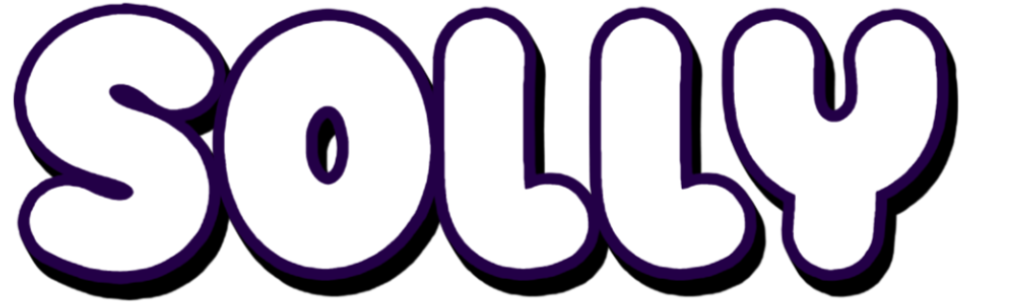
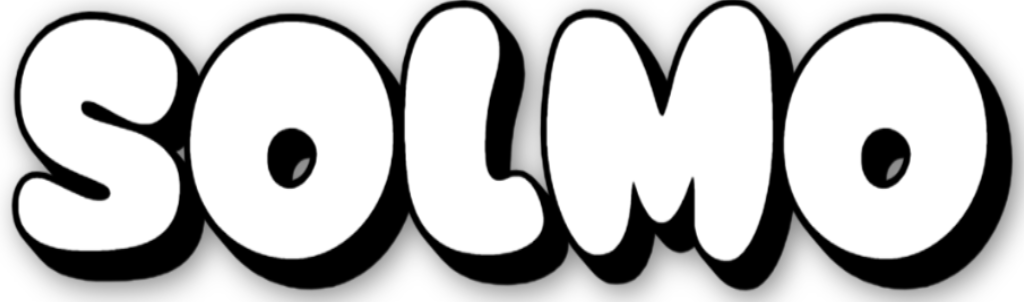
1

diff --git a/index.html b/index.html
@@ -1,10 +1,10 @@
 <!DOCTYPE html><html lang="en-US"><head>
 	<meta charset="UTF-8">
-			<title>SOLLY</title>
+			<title>SOLMO</title>
 		<meta name="viewport" content="width=device-width, initial-scale=1">
 <meta name="robots" content="max-image-preview:large">
 	<style>img:is([sizes="auto" i], [sizes^="auto," i]) { contain-intrinsic-size: 3000px 1500px }</style>
-	<title>SOLLY</title>
+	<title>SOLMO</title>
 
 <script>
 window._wpemojiSettings = {"baseUrl":"https:\/\/s.w.org\/images\/core\/emoji\/16.0.1\/72x72\/","ext":".png","svgUrl":"https:\/\/s.w.org\/images\/core\/emoji\/16.0.1\/svg\/","svgExt":".svg","source":{"concatemoji":"https:\/\/cyclope-solly.lol\/wp-includes\/js\/wp-emoji-release.min.js?ver=6.8.2"}};
@@ -101,7 +101,7 @@ window._wpemojiSettings = {"baseUrl":"https:\/\/s.w.org\/images\/core\/emoji\/16
 <link rel="icon" href="images/89mA0zrhSQyB.png" sizes="32x32">
 <link rel="icon" href="images/IZOmV4SHBa59.png" sizes="192x192">
 <link rel="apple-touch-icon" href="images/Iuq5YRJtw0Hx.png">
-<meta name="msapplication-TileImage" content="https://cyclope-solly.lol/wp-content/uploads/2025/09/cropped-SOLLY-02-270x270.png">
+<meta name="msapplication-TileImage" content="https://cyclope-solly.lol/wp-content/uploads/2025/09/cropped-SOLMO-02-270x270.png">
 	<meta name="viewport" content="width=device-width, initial-scale=1.0, viewport-fit=cover"></head>
 <body class="home wp-singular page-template page-template-elementor_canvas page page-id-8 wp-embed-responsive wp-theme-twentytwentyfive elementor-default elementor-template-canvas elementor-kit-7 elementor-page elementor-page-8">
 			<div data-elementor-type="wp-post" data-elementor-id="8" class="elementor elementor-8" data-elementor-post-type="page">
@@ -112,7 +112,7 @@ window._wpemojiSettings = {"baseUrl":"https:\/\/s.w.org\/images\/core\/emoji\/16
 				<div class="elementor-element elementor-element-9959b26 elementor-widget elementor-widget-image" data-id="9959b26" data-element_type="widget" data-widget_type="image.default">
 				<div class="elementor-widget-container">
 			<style>/*! elementor - v3.23.0 - 05-08-2024 */
-.elementor-widget-image{text-align:center}.elementor-widget-image a{display:inline-block}.elementor-widget-image a img[src$=".svg"]{width:48px}.elementor-widget-image img{vertical-align:middle;display:inline-block}</style>										<img fetchpriority="high" decoding="async" width="1024" height="302" src="images/1fzAzrQ1W9zP.png" class="attachment-large size-large wp-image-18" alt="" srcset="images/1fzAzrQ1W9zP.png 1024w, images/4cHuVs1ChpiT.png 300w, images/MsbCdbGXk9Nu.png 768w, images/0kXmdQ5VOPBu.png 1531w" sizes="(max-width: 1024px) 100vw, 1024px">													</div>
+.elementor-widget-image{text-align:center}.elementor-widget-image a{display:inline-block}.elementor-widget-image a img[src$=".svg"]{width:48px}.elementor-widget-image img{vertical-align:middle;display:inline-block}</style>										<img fetchpriority="high" decoding="async" width="1024" height="302" src="images/1fzAzrQ1W9zP.png" class="attachment-large size-large wp-image-18" >													</div>
 				</div>
 				</div>
 		<div class="elementor-element elementor-element-6f1f717 e-con-full e-flex e-con e-child" data-id="6f1f717" data-element_type="container">
@@ -154,7 +154,7 @@ window._wpemojiSettings = {"baseUrl":"https:\/\/s.w.org\/images\/core\/emoji\/16
 				<div class="elementor-element elementor-element-f789ff1 elementor-widget elementor-widget-heading" data-id="f789ff1" data-element_type="widget" data-widget_type="heading.default">
 				<div class="elementor-widget-container">
 			<style>/*! elementor - v3.23.0 - 05-08-2024 */
-.elementor-heading-title{padding:0;margin:0;line-height:1}.elementor-widget-heading .elementor-heading-title[class*=elementor-size-]>a{color:inherit;font-size:inherit;line-height:inherit}.elementor-widget-heading .elementor-heading-title.elementor-size-small{font-size:15px}.elementor-widget-heading .elementor-heading-title.elementor-size-medium{font-size:19px}.elementor-widget-heading .elementor-heading-title.elementor-size-large{font-size:29px}.elementor-widget-heading .elementor-heading-title.elementor-size-xl{font-size:39px}.elementor-widget-heading .elementor-heading-title.elementor-size-xxl{font-size:59px}</style><h2 class="elementor-heading-title elementor-size-default">$SOLLY</h2>		</div>
+.elementor-heading-title{padding:0;margin:0;line-height:1}.elementor-widget-heading .elementor-heading-title[class*=elementor-size-]>a{color:inherit;font-size:inherit;line-height:inherit}.elementor-widget-heading .elementor-heading-title.elementor-size-small{font-size:15px}.elementor-widget-heading .elementor-heading-title.elementor-size-medium{font-size:19px}.elementor-widget-heading .elementor-heading-title.elementor-size-large{font-size:29px}.elementor-widget-heading .elementor-heading-title.elementor-size-xl{font-size:39px}.elementor-widget-heading .elementor-heading-title.elementor-size-xxl{font-size:59px}</style><h2 class="elementor-heading-title elementor-size-default">$SOLMO</h2>		</div>
 				</div>
 				<div class="elementor-element elementor-element-93abe87 elementor-align-center elementor-widget elementor-widget-button" data-id="93abe87" data-element_type="widget" data-widget_type="button.default">
 				<div class="elementor-widget-container">
@@ -191,11 +191,11 @@ window._wpemojiSettings = {"baseUrl":"https:\/\/s.w.org\/images\/core\/emoji\/16
 		<div class="elementor-element elementor-element-16a8892 e-con-full e-flex e-con e-child" data-id="16a8892" data-element_type="container">
 				<div class="elementor-element elementor-element-ff9ca61 elementor-widget elementor-widget-image" data-id="ff9ca61" data-element_type="widget" data-widget_type="image.default">
 				<div class="elementor-widget-container">
-													<img loading="lazy" decoding="async" width="1024" height="641" src="images/7aKzSpfxFmTI.png" class="attachment-large size-large wp-image-24" alt="" srcset="images/7aKzSpfxFmTI.png 1024w, images/dv6R2PCYJuTu.png 300w, images/HjCuzeR8yxvj.png 768w, images/o3esAVqtWCFO.png 1107w" sizes="(max-width: 1024px) 100vw, 1024px">													</div>
+													<img loading="lazy" decoding="async" width="1024" height="641" src="images/7aKzSpfxFmTI.png" class="attachment-large size-large wp-image-24" alt="" >													</div>
 				</div>
 				<div class="elementor-element elementor-element-ede7e00 elementor-widget elementor-widget-heading" data-id="ede7e00" data-element_type="widget" data-widget_type="heading.default">
 				<div class="elementor-widget-container">
-			<h2 class="elementor-heading-title elementor-size-default">SOLLY comes with a spark that instantly lifts the mood. Round, cheerful, and always full of surprises, he bounces from one idea to the next with endless energy. $SOLLY carries that kind of fun you can’t put into words, but once you feel it, you’ll always want to be part of it again.</h2>		</div>
+			<h2 class="elementor-heading-title elementor-size-default">SOLMO comes with a spark that instantly lifts the mood. Round, cheerful, and always full of surprises, he bounces from one idea to the next with endless energy. $SOLMO carries that kind of fun you can’t put into words, but once you feel it, you’ll always want to be part of it again.</h2>		</div>
 				</div>
 				</div>
 				</div>
@@ -224,11 +224,11 @@ window._wpemojiSettings = {"baseUrl":"https:\/\/s.w.org\/images\/core\/emoji\/16
 				</div>
 				<div class="elementor-element elementor-element-a985c70 elementor-widget elementor-widget-image" data-id="a985c70" data-element_type="widget" data-widget_type="image.default">
 				<div class="elementor-widget-container">
-													<img loading="lazy" decoding="async" width="1024" height="97" src="images/Lfpv28HYl6fH.png" class="attachment-large size-large wp-image-26" alt="" srcset="images/Lfpv28HYl6fH.png 1024w, images/oZNPBiepPkEq.png 300w, images/8hSTS9jOUppu.png 768w, images/49DhwmuWCuPO.png 1536w, images/LvGb88pLaX1U.png 2048w" sizes="(max-width: 1024px) 100vw, 1024px">													</div>
+													<img loading="lazy" decoding="async" width="1024" height="97" src="images/Lfpv28HYl6fH.png" class="attachment-large size-large wp-image-26" alt="" >													</div>
 				</div>
 				<div class="elementor-element elementor-element-8ba68dd elementor-widget elementor-widget-heading" data-id="8ba68dd" data-element_type="widget" data-widget_type="heading.default">
 				<div class="elementor-widget-container">
-			<h2 class="elementor-heading-title elementor-size-default">Life can get too serious sometimes. SOLLY is here to break that loop with laughter, charm, and a little bit of chaos. He reminds us that joy doesn’t have to be complicated — it’s in the simple moments, shared with the right people.</h2>		</div>
+			<h2 class="elementor-heading-title elementor-size-default">Life can get too serious sometimes. SOLMO is here to break that loop with laughter, charm, and a little bit of chaos. He reminds us that joy doesn’t have to be complicated — it’s in the simple moments, shared with the right people.</h2>		</div>
 				</div>
 				</div>
 				<div class="elementor-element elementor-element-cc89a8f elementor-widget elementor-widget-spacer" data-id="cc89a8f" data-element_type="widget" data-widget_type="spacer.default">
@@ -257,7 +257,7 @@ window._wpemojiSettings = {"baseUrl":"https:\/\/s.w.org\/images\/core\/emoji\/16
 				</div>
 				<div class="elementor-element elementor-element-5c61304 elementor-widget elementor-widget-heading" data-id="5c61304" data-element_type="widget" data-widget_type="heading.default">
 				<div class="elementor-widget-container">
-			<h2 class="elementor-heading-title elementor-size-default">Every laugh, every spin, every little story adds to SOLLY’s world. Come be part of it — whether you’re here to play, to share, or just to enjoy the ride, you’re already one of us.</h2>		</div>
+			<h2 class="elementor-heading-title elementor-size-default">Every laugh, every spin, every little story adds to SOLMO’s world. Come be part of it — whether you’re here to play, to share, or just to enjoy the ride, you’re already one of us.</h2>		</div>
 				</div>
 				<div class="elementor-element elementor-element-69be62f elementor-align-left elementor-widget elementor-widget-button" data-id="69be62f" data-element_type="widget" data-widget_type="button.default">
 				<div class="elementor-widget-container">
@@ -291,7 +291,7 @@ window._wpemojiSettings = {"baseUrl":"https:\/\/s.w.org\/images\/core\/emoji\/16
 					<div class="e-con-inner">
 				<div class="elementor-element elementor-element-d441f37 elementor-widget elementor-widget-heading" data-id="d441f37" data-element_type="widget" data-widget_type="heading.default">
 				<div class="elementor-widget-container">
-			<h2 class="elementor-heading-title elementor-size-default">2026 SOLLY</h2>		</div>
+			<h2 class="elementor-heading-title elementor-size-default">2026 SOLMO</h2>		</div>
 				</div>
 					</div>
 				</div>
@@ -381,7 +381,7 @@ var ElementorProFrontendConfig = {"ajaxurl":"https:\/\/cyclope-solly.lol\/wp-adm
 <script src="js/EbXLwv8Qv1jq.js" id="elementor-waypoints-js"></script>
 <script src="js/JeSnNvoJRbG5.js" id="jquery-ui-core-js"></script>
 <script id="elementor-frontend-js-before">
-var elementorFrontendConfig = {"environmentMode":{"edit":false,"wpPreview":false,"isScriptDebug":false},"i18n":{"shareOnFacebook":"Share on Facebook","shareOnTwitter":"Share on Twitter","pinIt":"Pin it","download":"Download","downloadImage":"Download image","fullscreen":"Fullscreen","zoom":"Zoom","share":"Share","playVideo":"Play Video","previous":"Previous","next":"Next","close":"Close","a11yCarouselWrapperAriaLabel":"Carousel | Horizontal scrolling: Arrow Left & Right","a11yCarouselPrevSlideMessage":"Previous slide","a11yCarouselNextSlideMessage":"Next slide","a11yCarouselFirstSlideMessage":"This is the first slide","a11yCarouselLastSlideMessage":"This is the last slide","a11yCarouselPaginationBulletMessage":"Go to slide"},"is_rtl":false,"breakpoints":{"xs":0,"sm":480,"md":768,"lg":1025,"xl":1440,"xxl":1600},"responsive":{"breakpoints":{"mobile":{"label":"Mobile Portrait","value":767,"default_value":767,"direction":"max","is_enabled":true},"mobile_extra":{"label":"Mobile Landscape","value":880,"default_value":880,"direction":"max","is_enabled":false},"tablet":{"label":"Tablet Portrait","value":1024,"default_value":1024,"direction":"max","is_enabled":true},"tablet_extra":{"label":"Tablet Landscape","value":1200,"default_value":1200,"direction":"max","is_enabled":false},"laptop":{"label":"Laptop","value":1366,"default_value":1366,"direction":"max","is_enabled":false},"widescreen":{"label":"Widescreen","value":2400,"default_value":2400,"direction":"min","is_enabled":false}}},"version":"3.23.4","is_static":false,"experimentalFeatures":{"e_optimized_css_loading":true,"e_font_icon_svg":true,"additional_custom_breakpoints":true,"container":true,"container_grid":true,"e_swiper_latest":true,"e_nested_atomic_repeaters":true,"e_optimized_control_loading":true,"e_onboarding":true,"theme_builder_v2":true,"home_screen":true,"editor_v2":true,"ai-layout":true,"e_lazyload":true,"e_element_cache":true,"link-in-bio":true,"floating-buttons":true,"display-conditions":true,"form-submissions":true,"taxonomy-filter":true,"search":true},"urls":{"assets":"https:\/\/cyclope-solly.lol\/wp-content\/plugins\/elementor\/assets\/","ajaxurl":"https:\/\/cyclope-solly.lol\/wp-admin\/admin-ajax.php"},"nonces":{"floatingButtonsClickTracking":"5558436a1b"},"swiperClass":"swiper","settings":{"page":[],"editorPreferences":[]},"kit":{"active_breakpoints":["viewport_mobile","viewport_tablet"],"global_image_lightbox":"yes","lightbox_enable_counter":"yes","lightbox_enable_fullscreen":"yes","lightbox_enable_zoom":"yes","lightbox_enable_share":"yes","lightbox_title_src":"title","lightbox_description_src":"description"},"post":{"id":8,"title":"SOLLY","excerpt":"","featuredImage":false}};
+var elementorFrontendConfig = {"environmentMode":{"edit":false,"wpPreview":false,"isScriptDebug":false},"i18n":{"shareOnFacebook":"Share on Facebook","shareOnTwitter":"Share on Twitter","pinIt":"Pin it","download":"Download","downloadImage":"Download image","fullscreen":"Fullscreen","zoom":"Zoom","share":"Share","playVideo":"Play Video","previous":"Previous","next":"Next","close":"Close","a11yCarouselWrapperAriaLabel":"Carousel | Horizontal scrolling: Arrow Left & Right","a11yCarouselPrevSlideMessage":"Previous slide","a11yCarouselNextSlideMessage":"Next slide","a11yCarouselFirstSlideMessage":"This is the first slide","a11yCarouselLastSlideMessage":"This is the last slide","a11yCarouselPaginationBulletMessage":"Go to slide"},"is_rtl":false,"breakpoints":{"xs":0,"sm":480,"md":768,"lg":1025,"xl":1440,"xxl":1600},"responsive":{"breakpoints":{"mobile":{"label":"Mobile Portrait","value":767,"default_value":767,"direction":"max","is_enabled":true},"mobile_extra":{"label":"Mobile Landscape","value":880,"default_value":880,"direction":"max","is_enabled":false},"tablet":{"label":"Tablet Portrait","value":1024,"default_value":1024,"direction":"max","is_enabled":true},"tablet_extra":{"label":"Tablet Landscape","value":1200,"default_value":1200,"direction":"max","is_enabled":false},"laptop":{"label":"Laptop","value":1366,"default_value":1366,"direction":"max","is_enabled":false},"widescreen":{"label":"Widescreen","value":2400,"default_value":2400,"direction":"min","is_enabled":false}}},"version":"3.23.4","is_static":false,"experimentalFeatures":{"e_optimized_css_loading":true,"e_font_icon_svg":true,"additional_custom_breakpoints":true,"container":true,"container_grid":true,"e_swiper_latest":true,"e_nested_atomic_repeaters":true,"e_optimized_control_loading":true,"e_onboarding":true,"theme_builder_v2":true,"home_screen":true,"editor_v2":true,"ai-layout":true,"e_lazyload":true,"e_element_cache":true,"link-in-bio":true,"floating-buttons":true,"display-conditions":true,"form-submissions":true,"taxonomy-filter":true,"search":true},"urls":{"assets":"https:\/\/cyclope-solly.lol\/wp-content\/plugins\/elementor\/assets\/","ajaxurl":"https:\/\/cyclope-solly.lol\/wp-admin\/admin-ajax.php"},"nonces":{"floatingButtonsClickTracking":"5558436a1b"},"swiperClass":"swiper","settings":{"page":[],"editorPreferences":[]},"kit":{"active_breakpoints":["viewport_mobile","viewport_tablet"],"global_image_lightbox":"yes","lightbox_enable_counter":"yes","lightbox_enable_fullscreen":"yes","lightbox_enable_zoom":"yes","lightbox_enable_share":"yes","lightbox_title_src":"title","lightbox_description_src":"description"},"post":{"id":8,"title":"SOLMO","excerpt":"","featuredImage":false}};
 </script>
 <script src="js/ku3ejcIvKGwF.js" id="elementor-frontend-js"></script>
 <script src="js/PHkCe8gqVxI3.js" id="pro-elements-handlers-js"></script>
